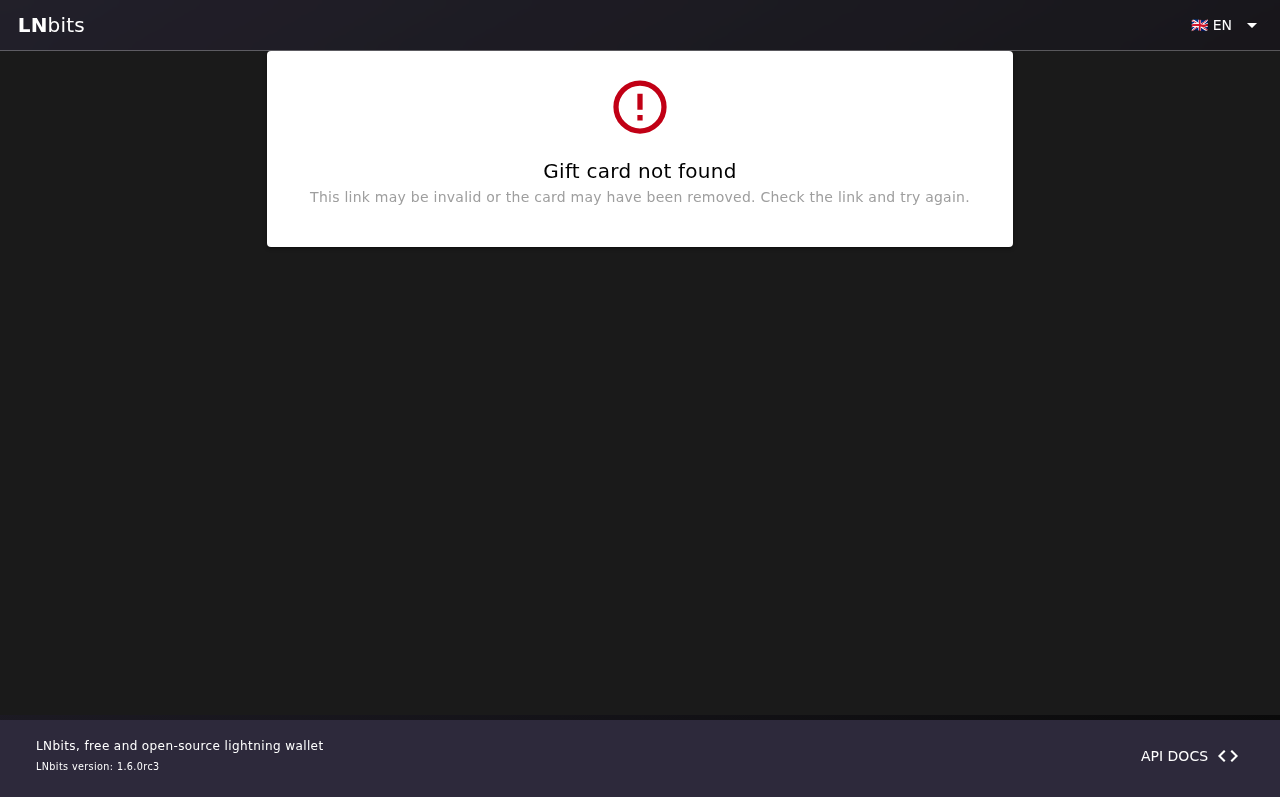
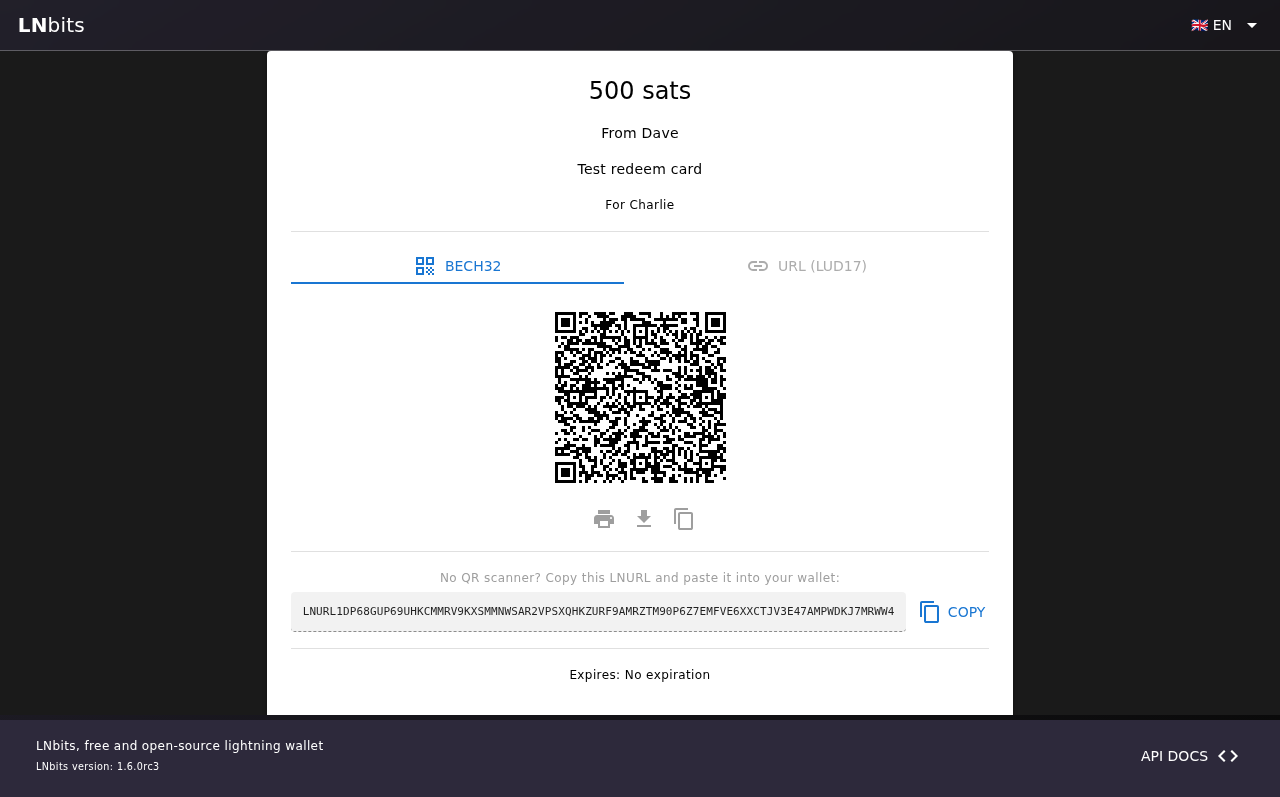
Fix redeem and claim pages not loading inside iframe
The redeem and claim pages run inside an iframe (via ext-frame), so
window.location.pathname is the frame URL (/ext-frame/giftcards_wasm/1),
not the redeem URL (/ext/giftcards_wasm/redeem/{token}). This caused
the token extraction from the URL path to fail, resulting in
"Gift card not found" for every redeem link.

Fix: Use LNbitsBridge.getRouteParams() to get the {token} path parameter
from the bridge context, which correctly provides the route params from
the original URL. The bridge must be connected first via connect()
before calling getRouteParams().

A fallback to window.location.pathname is kept for cases where the page
is accessed directly (not in an iframe).

Both redeem.js and claim.js are fixed.

Generated with [Devin](https://devin.ai)

diff --git a/static/js/redeem.js b/static/js/redeem.js
@@ -335,13 +335,25 @@
       async loadGiftCard() {
         this.loading = true;
         try {
-          // Get raw token from URL path: /ext/giftcards_wasm/redeem/{token}
-          var pathParts = window.location.pathname.split('/');
-          var rawToken = '';
-          for (var i = 0; i < pathParts.length; i++) {
-            if (pathParts[i] === 'redeem' && i + 1 < pathParts.length) {
-              rawToken = pathParts[i + 1];
-              break;
+          // Connect to the bridge first (required for getRouteParams)
+          await window.LNbitsBridge.connect();
+
+          // Get raw token from route params (provided by the bridge)
+          // The redeem page runs inside an iframe, so window.location.pathname
+          // is the frame URL, not the redeem URL. Route params are the
+          // reliable way to get the {token} from the URL path.
+          var routeParams = await window.LNbitsBridge.getRouteParams();
+          var rawToken = routeParams.token || '';
+
+          // Fallback: try extracting from window.location.pathname
+          // (works when the page is accessed directly, not in an iframe)
+          if (!rawToken) {
+            var pathParts = window.location.pathname.split('/');
+            for (var i = 0; i < pathParts.length; i++) {
+              if (pathParts[i] === 'redeem' && i + 1 < pathParts.length) {
+                rawToken = pathParts[i + 1];
+                break;
+              }
             }
           }
 

diff --git a/static/js/claim.js b/static/js/claim.js
@@ -24,14 +24,28 @@
         submitting: false
       };
     },
-    mounted: function () {
+    mounted: async function () {
       // Check if route has :magic_token — if so, verify the magic link
       // URL pattern: /ext/giftcards_wasm/claim/{token}
-      var path = window.location.pathname;
-      var match = path.match(/\/claim\/(.+)$/);
-      if (match && match[1]) {
+      // The claim page runs inside an iframe, so use route params from the bridge.
+      var token = '';
+      try {
+        await window.LNbitsBridge.connect();
+        var routeParams = await window.LNbitsBridge.getRouteParams();
+        token = routeParams.magicToken || routeParams.token || '';
+      } catch (e) {
+        // Fallback: extract from window.location.pathname
+      }
+      if (!token) {
+        var path = window.location.pathname;
+        var match = path.match(/\/claim\/(.+)$/);
+        if (match && match[1]) {
+          token = match[1];
+        }
+      }
+      if (token) {
         this.claimState = 'loading';
-        this.verifyMagicLink(match[1]);
+        this.verifyMagicLink(token);
       }
     },
     methods: {
